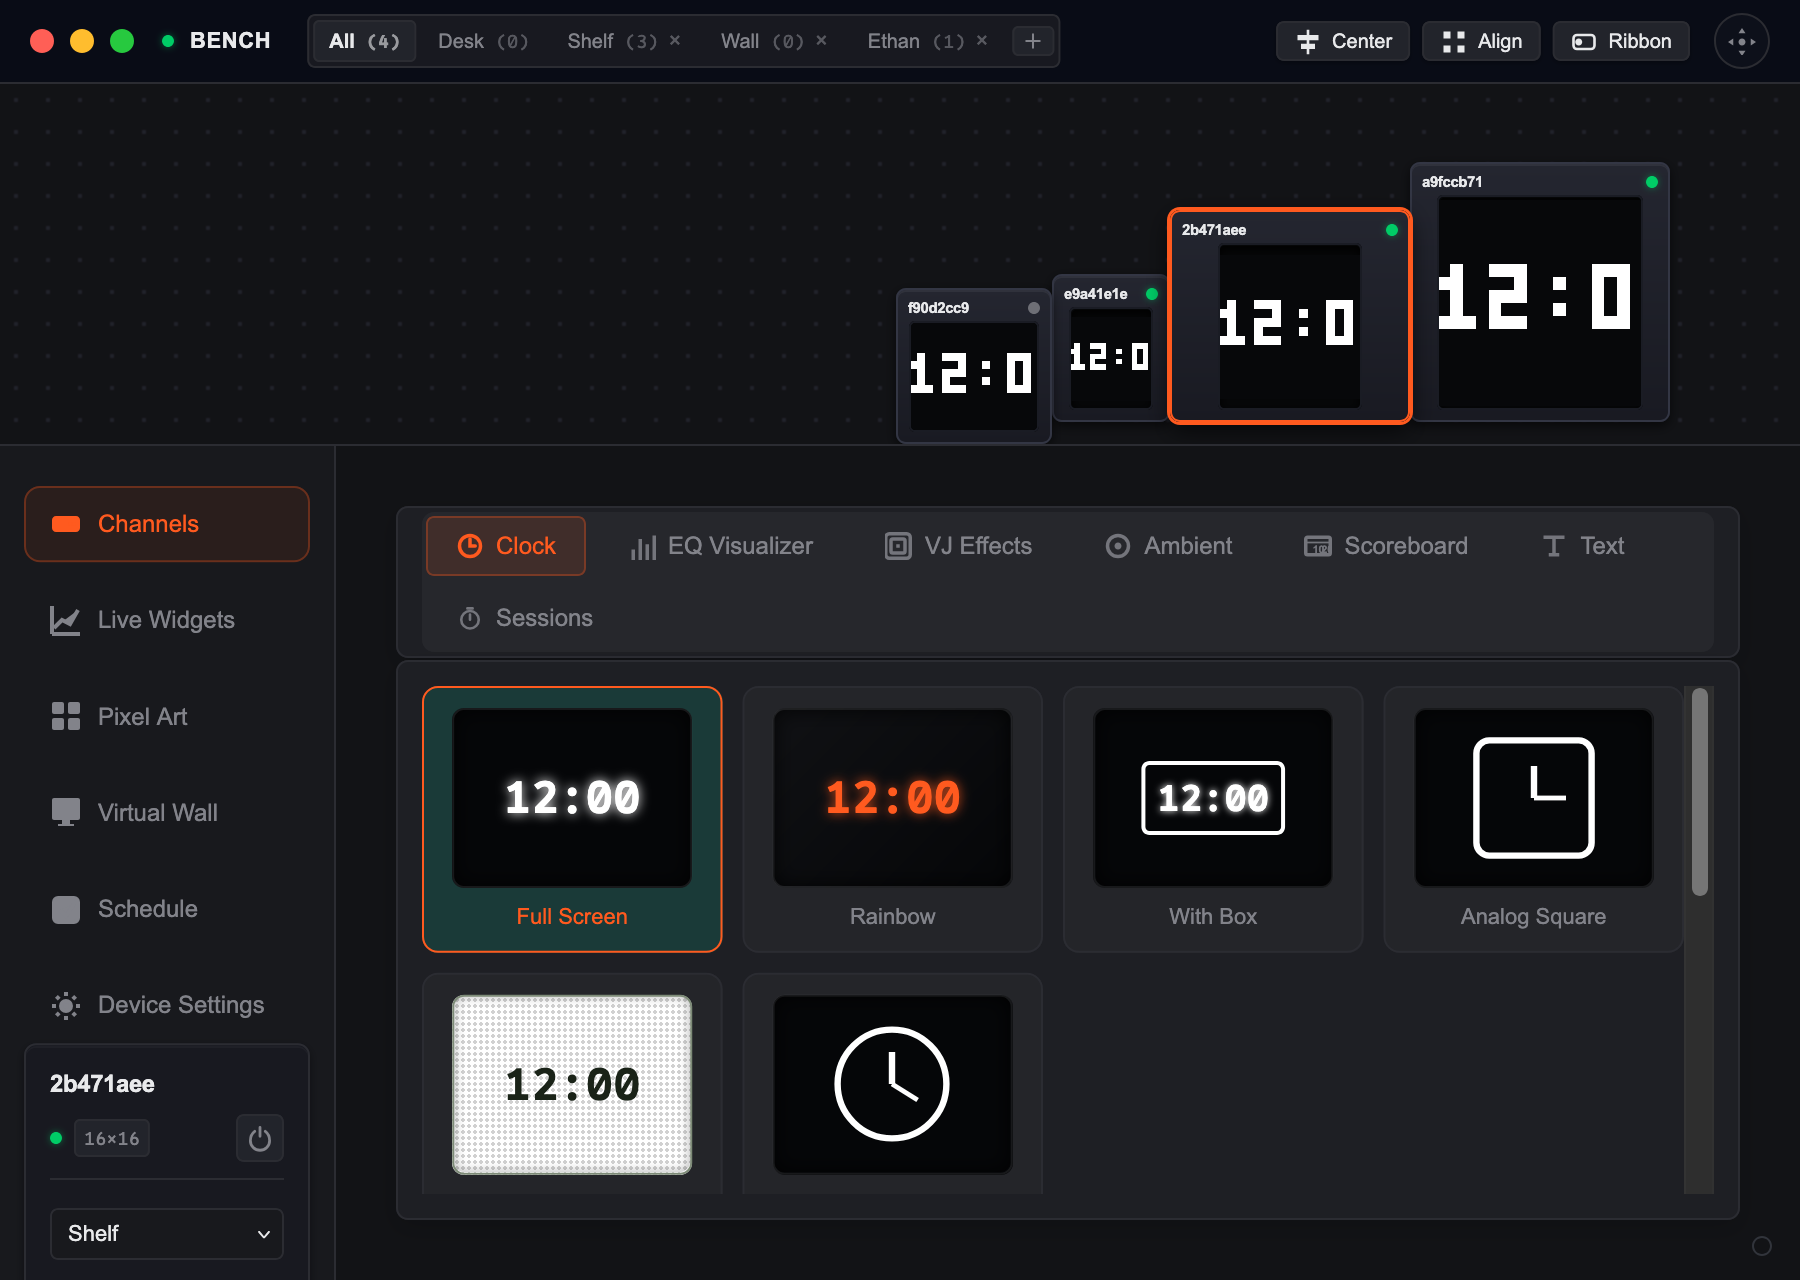
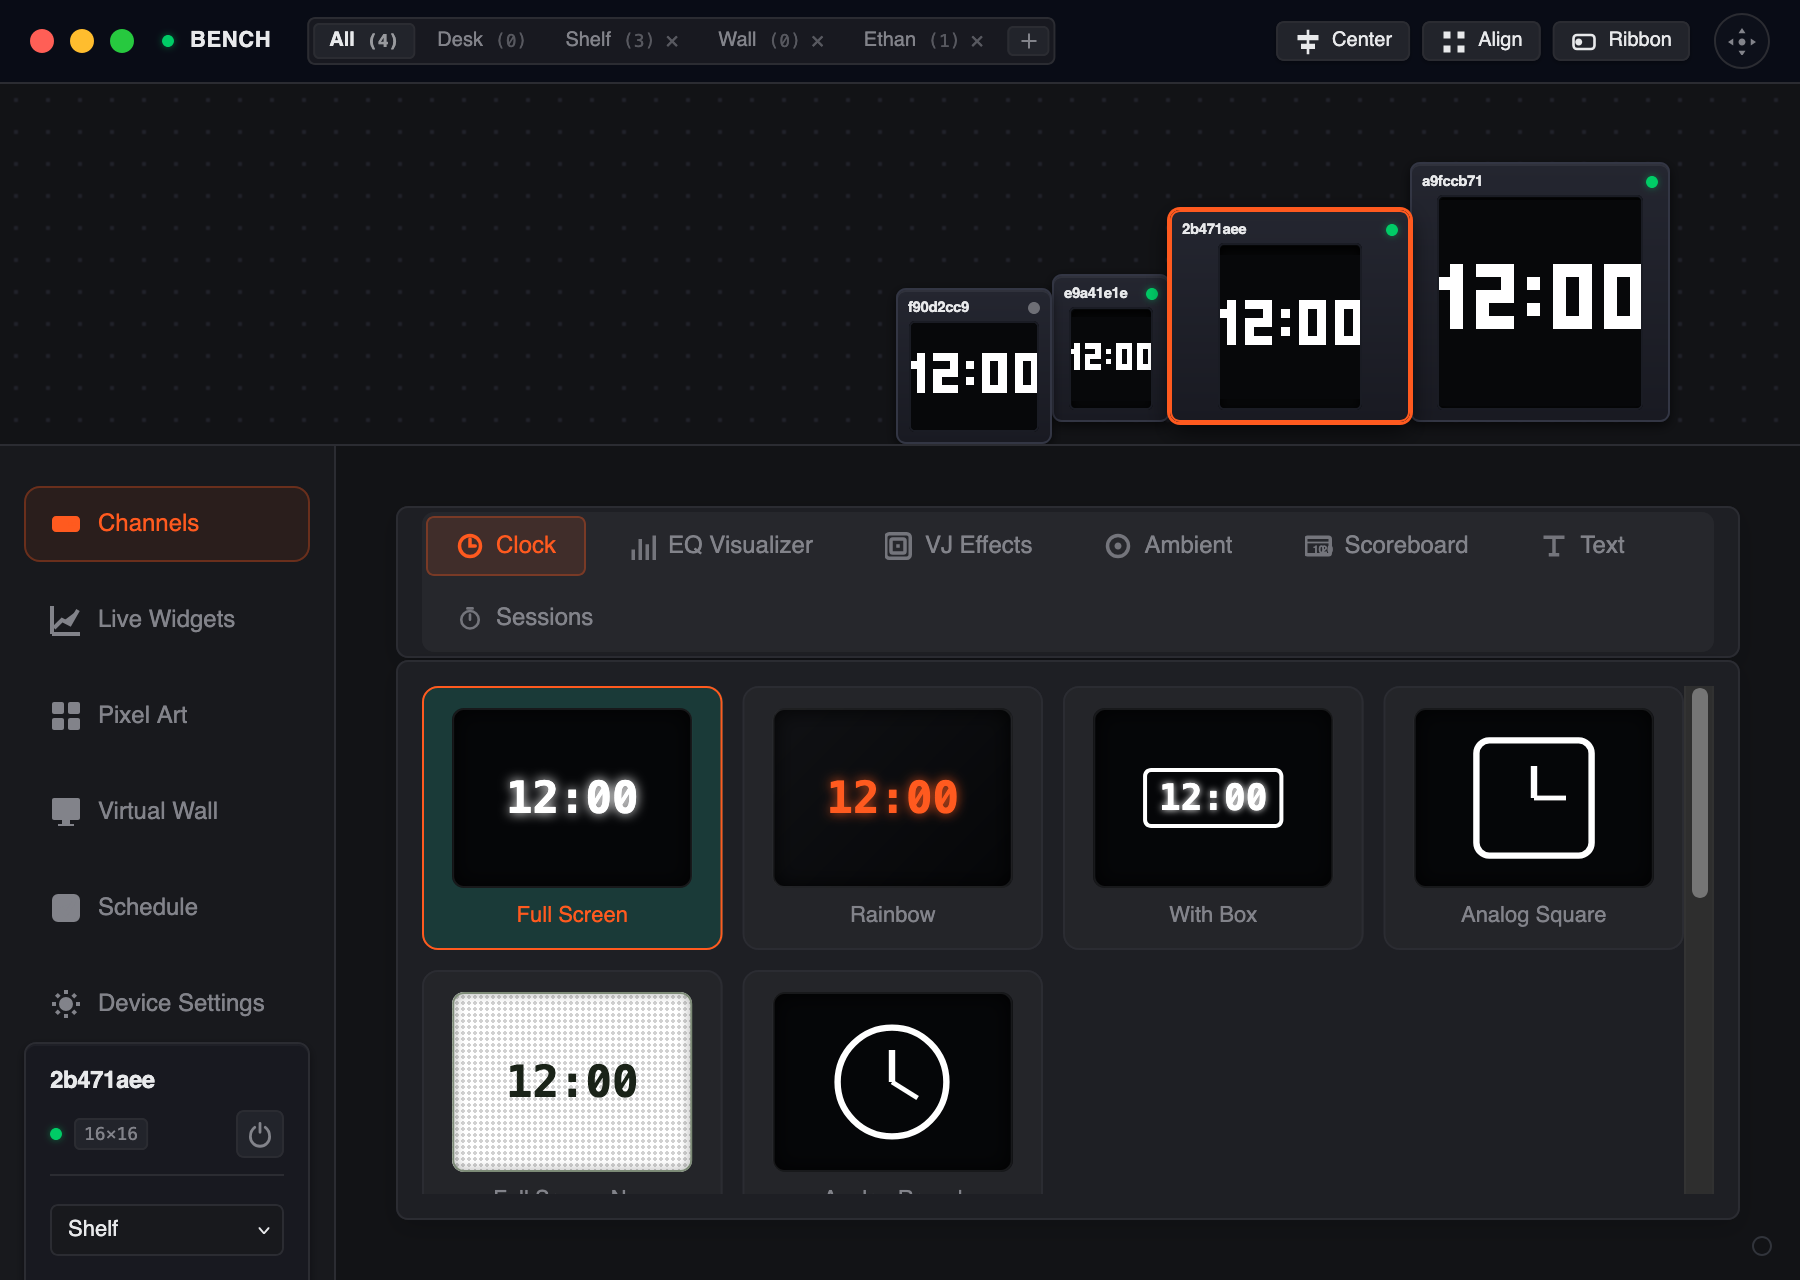
docs: the bench images re-rendered after P5.17's crop fix; D.FX5 in the changelog
D.FX5 item 4. docs/assets/bench-light.png and bench-dark.png predated
0d42fbc and showed the 16x16 clock cropped to "12:0"; both re-rendered with
tools/render_bench.py from the live daemon, the clock now whole at every size.

diff --git a/CHANGELOG.md b/CHANGELOG.md
@@ -6,6 +6,15 @@ shipped milestone (per the project planning docs).
 
 ## Unreleased
 
+- **A channel select keeps the brightness (D.FX5, 2026-11-01).** Live:
+  brightness 50, `set_channel 1`, and `get_brightness` read 100 -- the light
+  select carried a fixed white at 100. The light is now read back (0x46) and
+  re-sent as it was (`7bec265`); a lease restores channels 0/2 with the whole
+  select packet, not `0x45 [ch]` (`a6b3d72`); the D.FX3 export item is
+  renumbered P1.17, P1.14 stays the JS-syntax gate (`0f1d472`); the bench
+  images are re-rendered after P5.17's crop fix. Open: the wall's
+  `switch_channel` still sends the default light to every panel.
+
 - **Four defects from the 2026-11-01 pass (D.FX1-D.FX4).** (1) A one-byte
   `set_channel 1` turned a Ditoo dark at brightness 0: the light channel's
   nine trailing bytes are its colour, brightness and power, and
